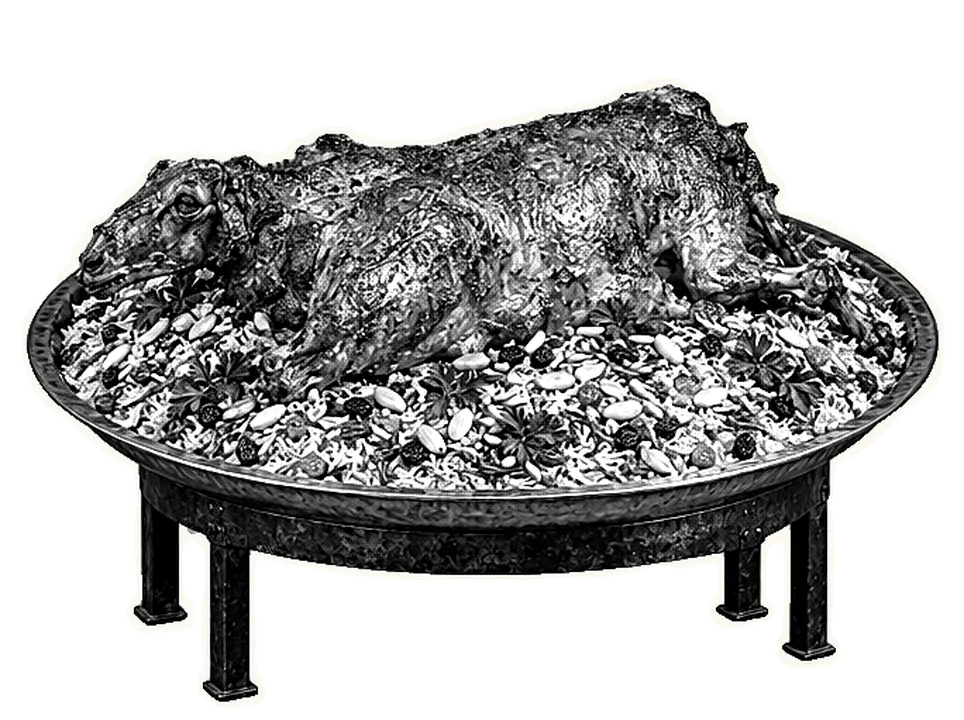
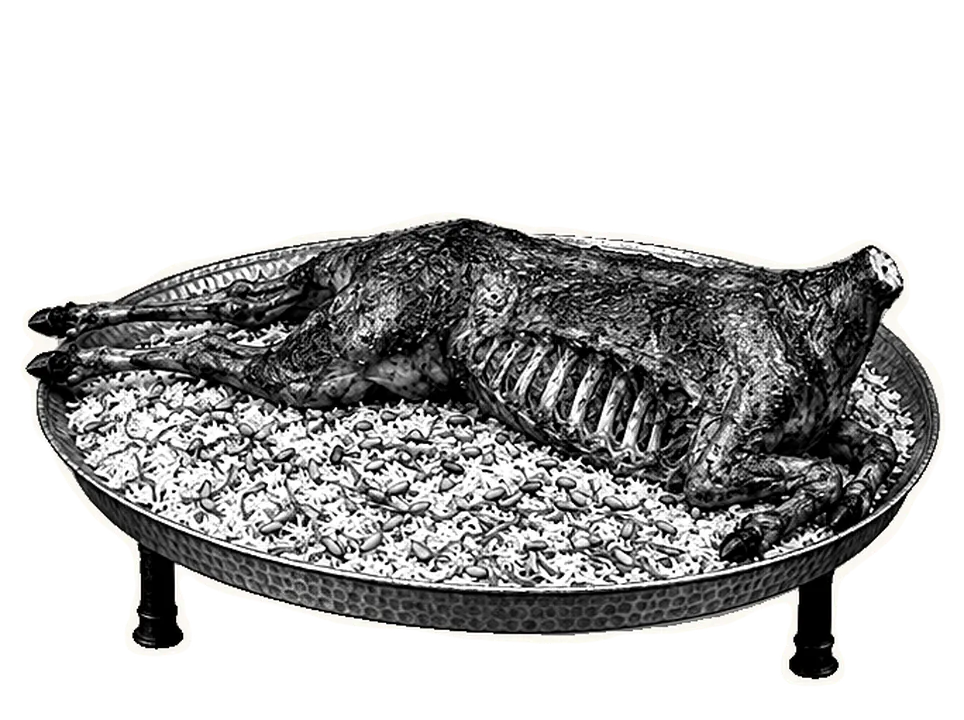
Make the Gulf and Egyptian whole-lamb stills headless, like the Yemeni
The three 365-day lamb stills disagreed: the Gulf one had its head with the
eyes closed, the Egyptian one had its head with the eye visible, and only the
Yemeni one was headless. Re-roll the Gulf and Egyptian ones headless, with the
lean body, hooves and visible ribs that make it read as lamb (the first four
re-rolls came out as roast chicken). Each is registered onto the footprint and
floor line of the old lamb and recut with its ladder's other five stills; the
recut is byte-for-byte identical for those five, so only still-6 changes.
The Egyptian lamb stays on its ladder's low round tray-table.

Claude-Session: https://claude.ai/code/session_01FVZA6q9rukphjd3HkQL46J

diff --git a/docs/celebrations-vignettes.md b/docs/celebrations-vignettes.md
@@ -149,10 +149,11 @@ Made the way the dances' are (see "Making a new dance" in `celebrations.md`):
 generated on Higgsfield with `gpt_image_2_5` at high quality, 2:3, 1.5
 credits each, the first still of a scene alone and the rest referencing it,
 on a flat mid-grey backdrop; then cut out with
-`scripts/celebrations/make_cutouts.py still|helper`. About 111 credits for
-61 stills kept out of 74 generations (the rest were re-rolls: a pose that came out
-wrong, a dress that read as another country's, a lamb that read as poultry). Three flags were added to the script for these
-scenes, because flat props behave differently from figures:
+`scripts/celebrations/make_cutouts.py still|helper`. About 123 credits for
+61 stills kept out of 82 generations (the rest were re-rolls: a pose that came out
+wrong, a dress that read as another country's, a lamb that read as poultry).
+Three flags were added to the script for these scenes, because flat props
+behave differently from figures:
 
 - `--key-low`: the brightness key also runs below the knees (paper lying low
   in the frame). The qalam.
@@ -181,10 +182,14 @@ who made it.
 - The spelling of المضبي (also written المظبي).
 
 **Costume and props**
-- The whole-lamb stills disagree: the Gulf one has its head with the eyes
-  closed, the Egyptian one has its head with the eye visible (stark), and the
-  Yemeni one is headless. Pick one. Whether a whole lamb is right for haneeth
-  at all is unconfirmed.
+- The three whole-lamb stills are now all headless, so they match (the Gulf and
+  Egyptian ones were re-rolled after the first set had one lamb with its eyes
+  closed and one with its eye visible; the first four re-rolls came out as roast
+  chicken, so the prompt insists on a lean carcass, hooves and ribs). Each sits
+  where its ladder's other dishes do: the Gulf and Yemeni on a flat platter, the
+  Egyptian on a low round tray-table, since its platter and spread are on one.
+  The ribs show along the flank. Whether a whole lamb is right for haneeth at
+  all, and whether a reviewer wants the ribs covered, is unconfirmed.
 - Every cook's fan (a round woven palm or straw paddle) and the Gulf cook's
   white thobe with a stand collar and placket.
 - The dallah's style (Najdi, Hejazi or Emirati), the bisht (it came out dark
